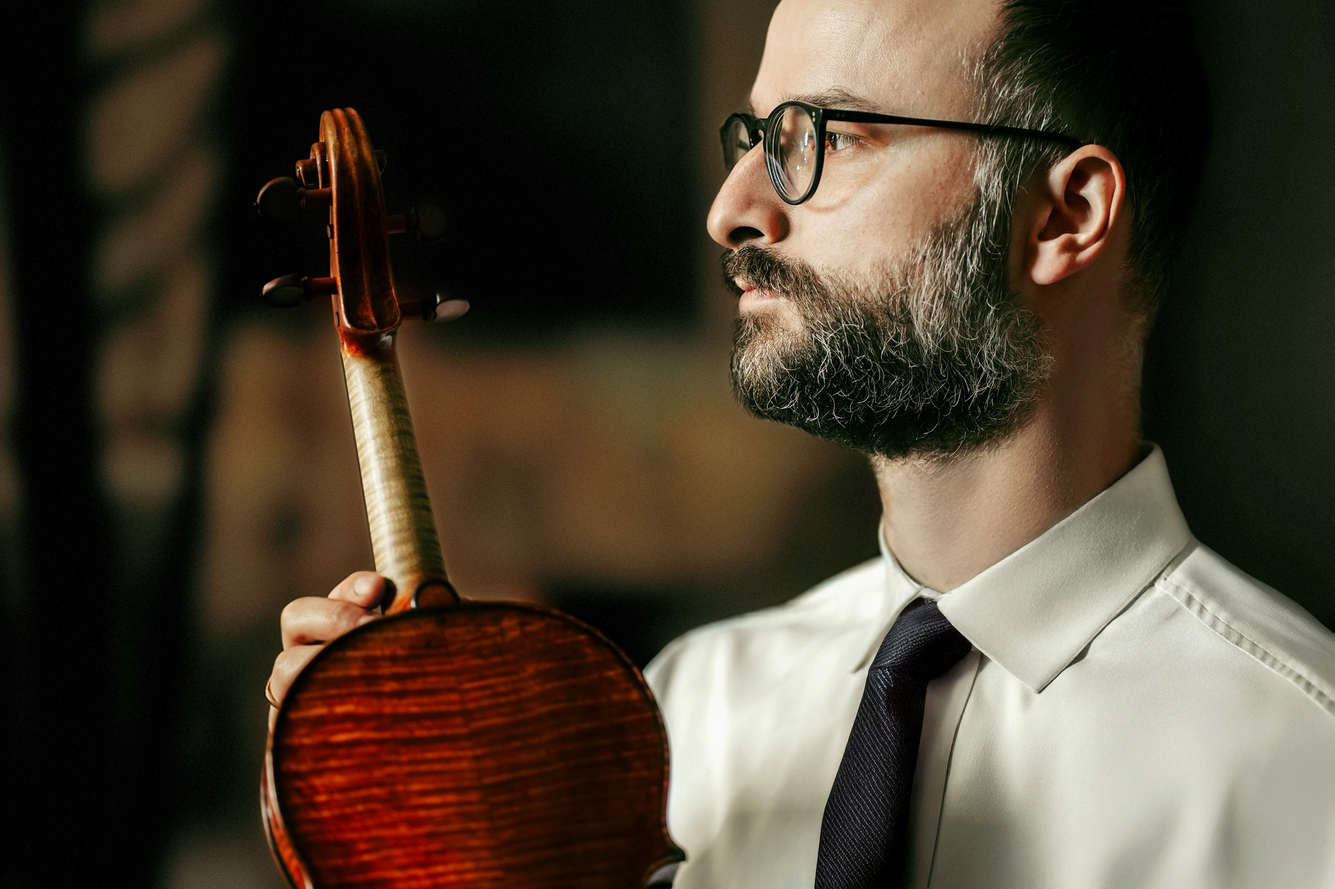
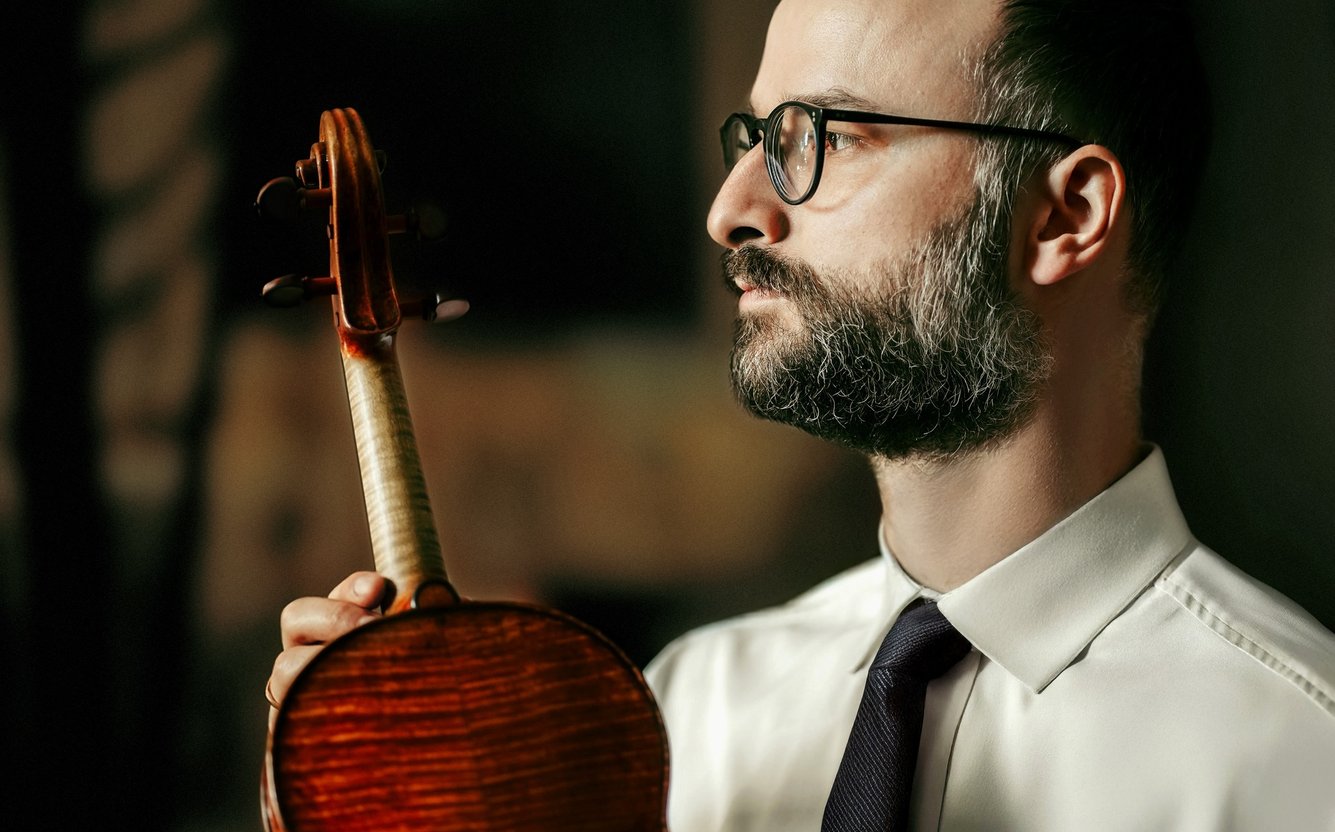
Update website files

diff --git a/index.html b/index.html
@@ -4,11 +4,11 @@
     <meta charset="UTF-8">
     <meta name="viewport" content="width=device-width, initial-scale=1.0">
     <title>Daniel Kurganov | Violinist, Educator</title>
-    
+
     <!-- Open Graph / Facebook Card Meta Tags -->
     <meta property="og:title" content="Daniel Kurganov | Violin, Education, Innovation">
     <meta property="og:description" content="The new central hub for my work, where music, education, and innovation converge.">
-    <meta property="og:image" content="https://www.kurganov.org/assets/images/kurganov-headshot.jpg"> 
+    <meta property="og:image" content="https://www.kurganov.org/assets/images/kurganov-headshot-02.jpg"> 
     <meta property="og:url" content="https://www.kurganov.org">
     <meta property="og:type" content="website">
 
@@ -16,12 +16,12 @@
     <meta name="twitter:card" content="summary_large_image">
     <meta name="twitter:title" content="Daniel Kurganov | Violin, Education, Innovation">
     <meta name="twitter:description" content="The new central hub for my work, where music, education, and innovation converge.">
-    <meta name="twitter:image" content="https://www.kurganov.org/assets/images/kurganov-headshot.jpg"> 
+    <meta name="twitter:image" content="https://www.kurganov.org/assets/images/kurganov-headshot-02.jpg"> 
     
     <link rel="icon" type="image/png" href="assets/favicon-kurganov.png">
 
     <!-- Preload critical resources -->
-    <link rel="preload" href="assets/images/kurganov-headshot.jpg" as="image">
+     <link rel="preload" href="assets/images/kurganov-headshot.jpg" as="image">
     <link rel="preload" href="assets/css/styles.css" as="style">
     <link rel="preload" href="assets/js/main.js" as="script">
     
